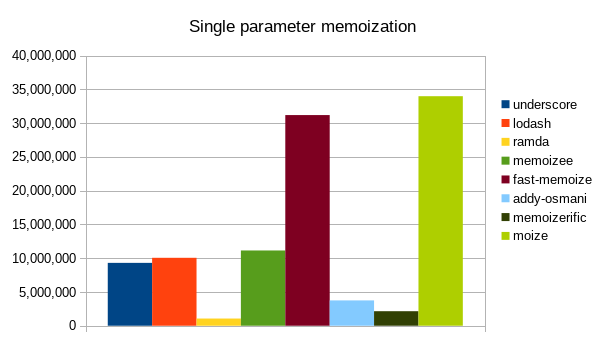
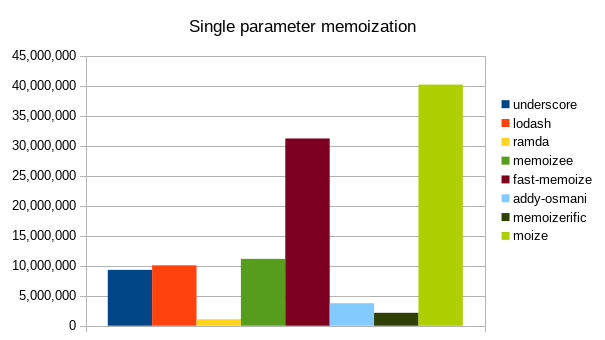
Updates...
* Remove unneeded `hasKey` function in favor of straightforward `cache.get` (boost single parameter function over 40mil!)
* Change `isMoizeKey` to `isMultiParamKey` and provide a simple way to check it when getting existing argument-based keys
* Update tests after changes
* Update README with new benchmarks

diff --git a/docs/quicksearch.html b/docs/quicksearch.html
@@ -7,7 +7,7 @@
     <script src="scripts/fulltext-search.js"></script>
 
     <script type="text/x-docstrap-searchdb">
-    {"MapLike.js.html":{"id":"MapLike.js.html","title":"Source: MapLike.js","body":" moize Modules moize Source: MapLike.js // @flow // utils import { getIndexOfItemInMap, splice, unshift } from './utils'; /** * @private * * @class MapLike * @classdesc class that mimics parts of the Map infrastructure, but faster */ class MapLike { lastItem: ?Object = undefined; list: Array&lt;any&gt; = []; size: number = 0; /** * @function clear * @memberOf MapLike * @instance * * @description * remove all keys from the map */ clear() { this.lastItem = undefined; this.list = []; this.size = 0; } /** * @function delete * @memberOf MapLike * @instance * * @description * remove the key from the map * * @param {*} key key to delete from the map */ delete(key: any) { const index: number = getIndexOfItemInMap(this.list, this.size, key); if (!!~index) { splice(this.list, index); this.size--; if (this.size === 0) { this.lastItem = undefined; } } } /** * @function get * @memberOf MapLike * @instance * * @description * get the value for the given key * * @param {*} key key to get the value for * @returns {*} value at the key location */ get(key: any) { if (!this.size) { return undefined; } // $FlowIgnore: this.lastItem.key exists if (this.lastItem.key === key) { // $FlowIgnore: this.lastItem.value exists return this.lastItem.value; } const index: number = getIndexOfItemInMap(this.list, this.size, key); if (!!~index) { this.lastItem = this.list[index]; splice(this.list, index); unshift(this.list, this.lastItem); // $FlowIgnore this will still exist after the unshift return this.lastItem.value; } } /** * @function has * @memberOf MapLike * @instance * * @description * does the map have the key provided * * @param {*} key key to test for in the map * @returns {boolean} does the map have the key */ has(key: any) { if (!this.size) { return false; } // $FlowIgnore last item exists because it has size if (this.lastItem.key === key) { return true; } const index = getIndexOfItemInMap(this.list, this.size, key); if (!!~index) { this.lastItem = this.list[index]; return true; } return false; } /** * @function set * @memberOf MapLike * @instance * * @description * set the value at the key location, or add a new item with that key value * * @param {*} key key to assign value of * @param {*} value value to store in the map at key */ set(key: any, value: any) { this.lastItem = { key, value }; unshift(this.list, this.lastItem); this.size++; } } export default MapLike; × Search results Close Documentation generated by JSDoc 3.4.3 using the DocStrap template. "},"index.js.html":{"id":"index.js.html","title":"Source: index.js","body":" moize Modules moize Source: index.js // @flow // external dependencies import MapLike from './MapLike'; // utils import { createAddPropertiesToFunction, createGetCacheKey, createSetNewCachedValue, hasKey, isFunction } from './utils'; type Options = { cache?: Object, isPromise?: boolean, maxAge?: number, maxArgs?: number, maxSize?: number, serialize?: boolean, serializeFunctions?: boolean, serializer?: Function }; /** * @module moize */ const INFINITY = Number.POSITIVE_INFINITY; const NOT_A_FUNCTION_ERROR = 'You must pass a function as the first parameter to moize.'; /** * @function moize * * @description * store cached values returned from calling method with arguments to avoid reprocessing data from same arguments * * @example * import moize from 'moize'; * * // standard implementation * const fn = (foo, bar) =&gt; { * return `${foo} ${bar}`; * }; * const memoizedFn = moize(fn); * * // implementation with options * const fn = async (id) =&gt; { * return get(`http://foo.com/${id}`); * }; * const memoizedFn = moize(fn, { * isPromise: true, * maxSize: 5 * }); * * @param {function} fn method to memoize * @param {Options} [options={}] options to customize how the caching is handled * @param {MapLike} [options.cache=new MapLike()] caching mechanism to use for method * @param {boolean} [options.isPromise=false] is the function return expected to be a promise to resolve * @param {number} [options.maxAge=Infinity] the maximum age the value should persist in cache * @param {number} [options.maxArgs=Infinity] the maximum number of arguments to be used in serializing the keys * @param {number} [options.maxSize=Infinity] the maximum size of the cache to retain * @param {function} [options.serializer] method to serialize arguments with for cache storage * @returns {Function} higher-order function which either returns from cache or newly-computed value */ const moize = function(fn: Function, options: Options = {}): any { if (!isFunction(fn)) { throw new TypeError(NOT_A_FUNCTION_ERROR); } if (fn.isMemoized) { return fn; } const { cache = new MapLike(), isPromise = false, maxAge = INFINITY, maxArgs = INFINITY, maxSize = INFINITY, serialize = false, serializeFunctions = false, serializer } = options; const addPropertiesToFunction: Function = createAddPropertiesToFunction(cache, fn); const getCacheKey: Function = createGetCacheKey(cache, serialize, serializer, serializeFunctions, maxArgs); const setNewCachedValue: Function = createSetNewCachedValue(isPromise, maxAge, maxSize); let key: any; /** * @private * * @function memoizedFunction * * @description * higher-order function which either returns from cache or stores newly-computed value and returns it * * @param {Array&lt;*&gt;} args arguments passed to method * @returns {any} value resulting from executing of fn passed to memoize */ const memoizedFunction = function(...args: Array&lt;any&gt;): any { key = getCacheKey(args); return hasKey(cache, key, args) ? cache.get(key) : setNewCachedValue(memoizedFunction, key, fn.apply(this, args)); }; return addPropertiesToFunction(memoizedFunction); }; /** * @function moize.react * * @description * react-specific memoization, with auto serialization including functions * * * @param {function} fn React functional component to memoize * @param {Options} [options={}] options to customize how the caching is handled * @returns {Function} higher-order function which either returns from cache or newly-computed ReactElement */ moize.react = function(fn: Function, options: Options = {}): any { return moize(fn, { ...options, serialize: true, serializeFunctions: true }); }; export default moize; × Search results Close Documentation generated by JSDoc 3.4.3 using the DocStrap template. "},"modules.list.html":{"id":"modules.list.html","title":"Modules","body":" moize Modules moize Modules × Search results Close Documentation generated by JSDoc 3.4.3 using the DocStrap template. "},"index.html":{"id":"index.html","title":"Index","body":" moize Modules moize moize 2.0.0 moize moize is a blazing fast memoization library for JavaScript. It handles multiple arguments out of the box, and also offers options to help satisfy a number of implementation-specific needs. It has no dependencies, and is about 2.7kb when minified and gzipped. Table of contents Installation Usage Usage with functional React components Advanced usage Direct cache manipulation Benchmarks Browser support Development Installation $ npm i moize --saveUsage import moize from 'moize'; const method = (a, b) =&gt; { return a + b; }; const memoized = moize(method); memoized(2, 4); // 6 memoized(2, 4); // 6, pulled from cacheAll parameter types are supported, including circular objects, functions, etc. You can even memoize functional React components based on their props + context combination! Usage with functional React components Now in v2.x.x of moize you have a quick shortcut for memoizing functional components in React: import moize from 'moize'; const Foo = ({bar, baz}) =&gt; { return ( &lt;div&gt; {bar} {baz} &lt;/div&gt; ); }; export default moize.react(Foo);moize.react will auto-apply the serialize and serializeFunctions options to true, which allows for a value equality comparison of props and context. You can still pass additional options in the same way you pass them in the default moize method. Please note this will not operate with components made via the class instantiation. Advanced usage moize optionally accepts an object of options as the second parameter. The full shape of these options: { cache: Map|Object, // custom cache implementation isPromise: boolean, // is the result a promise maxAge: number, // amount of time in milliseconds before the cache will expire maxArgs: number, // maximum number of arguments to use as key for caching maxSize: number, // maximum size of cache for this method serialize: boolean, // should the parameters be serialized instead of directly referenced serializeFunctions: boolean, // should functions be included in the serialization of multiple parameters serializer: Function // method to serialize the arguments to build a unique cache key }cache defaults to new Map() The default cache implementation is build for speed in its purpose, however if you would like then you can pass in a custom cache implementation. The only requirements for the cache implementation is that it matches the relevant Map API methods: clear delete get has set const cache = { clear() { Object.keys(this).forEach((key) =&gt; { if (typeof this[key] !== 'function') { this.delete(key); } }); }, delete(key) { delete this[key]; }, get(key) { return this[key]; }, has(key) { return this.hasOwnProperty[key]; }, set(key, value) { this[key] = value; return this; } }; const fn = (item) =&gt; { return item; }; const memoized = moize(fn, { cache });isPromise defaults to false Is the computed value in the function a Promise, and should we cache the resolved value from that Promise. const fn = async (item) =&gt; { return await item; }; const memoized = moize(fn, { isPromise: true });maxAge defaults to Infinity The maximum amount of time in milliseconds that you want a computed value to be stored in cache for this method. const fn = (item) =&gt; { return item; }; const memoized = moize(fn, { maxAge: 1000 * 60 * 5 // five minutes });maxArgs defaults to the length of arguments passed to the method The maximum number of arguments used in creating the key for the cache. const fn = (item1, item2, item3) =&gt; { return item1 + item2 + item3; }; const memoized = moize(fn, { maxArgs: 2 });maxSize defaults to Infinity The maximum size of the cache you want stored in cache for this method. Clearance of the cache once the maxSize is reached is on a Least Recently Used basis. const fn = (item) =&gt; { return item; }; const memoized = moize(fn, { maxSize: 5 });serialize defaults to false In moize v1.x.x, parameter serialization was used, whereas in v2.x.x and beyond we use strict equality to compare parameters. While this is both faster and more accurate, there may be scenarios where you want to serialize the parameters instead (for value equality comparison in situations where you are using mutated objects, for example). Simply pass the serialize parameter as true and you will use the performant serializer from v1.x.x. const fn = (mutableObject) =&gt; { return mutableObject.foo; }; const memoized = moize(fn, { serialize: true }); const object = { foo: 'foo' }; memoized(object); // 'foo' object.foo = 'bar'; memoized(object); // 'bar'serializeFunctions defaults to false By setting this option to true, a custom replacer will be used to ensure functions are included in the key serialization. This is especially beneficial when caching functional React components, as interactivity functions as part of props will now be included in the unique key structure (in fact, this is exactly how moize.react works!). Please note that this will decrease performance of this specific function between 10-25% depending on environment. const FunctionalComponent = ({onClickFoo}) =&gt; { return ( &lt;button onClick={onClickFoo} type=&quot;button&quot; &gt; Click me! &lt;/button&gt; ) }; const MemoizedFunctionalComponent = moize(FunctionalComponent, { serializeFunctions: true });Please note that you must also set serialize to true for this setting to take effect. serializer defaults to serializeArguments in utils.js The default seralizer method is highly performant, and covers a number of edge cases (recursive objects, for example), however if you want to provide a custom one you may. The value returned from the function must be a valid value of keys for a Map. const serializer = (args) =&gt; { return JSON.stringify(args[0]); }; const memoized = moize(fn, { serializer });Please note that you must also set serialize to true for this setting to take effect. Direct cache manipulation There are a couple of methods provided on the memoized function which allow for programmatic manipulation of the cache: clear() This will clear all values in the cache, resetting it to a default state. const memoized = moize((item) =&gt; { return item; }); memoized.clear();delete(key) This will delete the provided key from cache. // if single parameter, delete with the object itself const memoized = moize((item) =&gt; { return item; }); const foo = { bar: 'baz' }; memoized(foo); memoized.delete(foo); // if multi parameter, delete with the same arguments you passed const memoized = moize((item1, item2) =&gt; { return item1 + item2; }); const foo = 1; const bar = 2; memoized(foo, bar); memoized.delete(foo, bar);keys() This will return a list of the current keys in cache. const memoized = moize((item) =&gt; { return item; }); const foo = 'foo'; memoized(foo); const bar = { baz: 'baz' }; memoized(bar); const keys = memoized.keys(); // ['foo', {baz: 'baz'}]values() This will return a list of the current keys in cache. const memoized = moize((item) =&gt; { return { item }; }); const foo = 'foo'; memoized(foo); const bar = { baz: 'baz' }; memoized(bar); const values = memoized.values(); // [{item: 'foo'}, {item: {baz: 'baz'}}]Benchmarks All values provided are the number of operations per second (ops/sec) calculated by the Benchmark suite. Note that underscore, lodash, and ramda do not support mulitple-parameter memoization, so they are not included in those benchmarks. Each benchmark was performed using the default configuration of the library, with a fibonacci calculation based on a starting parameter of 35, and in the case of multiple parameters a second parameter (boolean for primitives, object for complex objects) was used. underscore lodash ramda memoizee fast-memoize addy-osmani memoizerific moize 9,313,172 10,063,753 1,072,901 11,145,989 31,208,485 3,755,775 2,157,874 33,995,482 memoizee fast-memoize addy-osmani memoizerific moize 8,018,360 1,239,470 1,681,101 1,359,196 6,581,210 memoizee fast-memoize addy-osmani memoizerific moize 7,198,600 877,440 810,924 1,208,660 6,011,380 NOTE: benchmarks posted prior were inaccurate for memoizee and memoizerific, as it turns out I was creating new objects instead of using the same ones (sorry). The updated benchmarks are an accurate reflection of default usage. Browser support Chrome (all versions) Firefox (all versions) Opera 15+ Edge (all versions) IE 9+ Safari 6+ Theoretically the support should go back even farther, these are just the environments that I have tested. Development Standard stuff, clone the repo and npm install dependencies. The npm scripts available: build =&gt; run webpack to build development dist file with NODE_ENV=development build:minifed =&gt; run webpack to build production dist file with NODE_ENV=production dev =&gt; run webpack dev server to run example app (playground!) dist =&gt; runs build and build-minified docs =&gt; builds the docs via jsdoc lint =&gt; run ESLint against all files in the src folder prepublish =&gt; runs compile-for-publish prepublish:compile =&gt; run lint, test, transpile, dist test =&gt; run AVA test functions with NODE_ENV=test test:coverage =&gt; run test but with nyc for coverage checker test:watch =&gt; run test, but with persistent watcher transpile =&gt; run babel against all files in src to create files in lib × Search results Close Documentation generated by JSDoc 3.4.3 using the DocStrap template. "},"module-moize.html":{"id":"module-moize.html","title":"Module: moize","body":" moize Modules moize Module: moize Source: index.js, line 23 Methods &lt;inner&gt; moize(fn [, options]) store cached values returned from calling method with arguments to avoid reprocessing data from same arguments Parameters: Name Type Argument Default Description fn function method to memoize options Options &lt;optional&gt; {} options to customize how the caching is handled Properties Name Type Argument Default Description cache MapLike &lt;optional&gt; new MapLike() caching mechanism to use for method isPromise boolean &lt;optional&gt; false is the function return expected to be a promise to resolve maxAge number &lt;optional&gt; Infinity the maximum age the value should persist in cache maxArgs number &lt;optional&gt; Infinity the maximum number of arguments to be used in serializing the keys maxSize number &lt;optional&gt; Infinity the maximum size of the cache to retain serializer function &lt;optional&gt; method to serialize arguments with for cache storage Source: index.js, line 30 Returns: higher-order function which either returns from cache or newly-computed value Type function Example import moize from 'moize'; // standard implementation const fn = (foo, bar) =&gt; { return `${foo} ${bar}`; }; const memoizedFn = moize(fn); // implementation with options const fn = async (id) =&gt; { return get(`http://foo.com/${id}`); }; const memoizedFn = moize(fn, { isPromise: true, maxSize: 5 }); × Search results Close Documentation generated by JSDoc 3.4.3 using the DocStrap template. "}}
+    {"MapLike.js.html":{"id":"MapLike.js.html","title":"Source: MapLike.js","body":" moize Modules moize Source: MapLike.js // @flow // utils import { getIndexOfItemInMap, splice, unshift } from './utils'; /** * @private * * @class MapLike * @classdesc class that mimics parts of the Map infrastructure, but faster */ class MapLike { lastItem: ?Object = undefined; list: Array&lt;any&gt; = []; size: number = 0; /** * @function clear * @memberOf MapLike * @instance * * @description * remove all keys from the map */ clear() { this.lastItem = undefined; this.list = []; this.size = 0; } /** * @function delete * @memberOf MapLike * @instance * * @description * remove the key from the map * * @param {*} key key to delete from the map */ delete(key: any) { const index: number = getIndexOfItemInMap(this.list, this.size, key); if (!!~index) { splice(this.list, index); this.size--; if (this.size === 0) { this.lastItem = undefined; } } } /** * @function get * @memberOf MapLike * @instance * * @description * get the value for the given key * * @param {*} key key to get the value for * @returns {*} value at the key location */ get(key: any) { if (!this.size) { return undefined; } // $FlowIgnore: this.lastItem.key exists if (this.lastItem.key === key) { // $FlowIgnore: this.lastItem.value exists return this.lastItem.value; } const index: number = getIndexOfItemInMap(this.list, this.size, key); if (!!~index) { this.lastItem = this.list[index]; splice(this.list, index); unshift(this.list, this.lastItem); // $FlowIgnore this will still exist after the unshift return this.lastItem.value; } } /** * @function has * @memberOf MapLike * @instance * * @description * does the map have the key provided * * @param {*} key key to test for in the map * @returns {boolean} does the map have the key */ has(key: any) { if (!this.size) { return false; } // $FlowIgnore last item exists because it has size if (this.lastItem.key === key) { return true; } const index = getIndexOfItemInMap(this.list, this.size, key); if (!!~index) { this.lastItem = this.list[index]; return true; } return false; } /** * @function set * @memberOf MapLike * @instance * * @description * set the value at the key location, or add a new item with that key value * * @param {*} key key to assign value of * @param {*} value value to store in the map at key */ set(key: any, value: any) { this.lastItem = { key, isMultiParamKey: !!(key &amp;&amp; key.isMultiParamKey), value }; unshift(this.list, this.lastItem); this.size++; } } export default MapLike; × Search results Close Documentation generated by JSDoc 3.4.3 using the DocStrap template. "},"index.js.html":{"id":"index.js.html","title":"Source: index.js","body":" moize Modules moize Source: index.js // @flow // external dependencies import MapLike from './MapLike'; // utils import { createAddPropertiesToFunction, createGetCacheKey, createSetNewCachedValue, isFunction } from './utils'; type Options = { cache?: Object, isPromise?: boolean, maxAge?: number, maxArgs?: number, maxSize?: number, serialize?: boolean, serializeFunctions?: boolean, serializer?: Function }; /** * @module moize */ const INFINITY = Number.POSITIVE_INFINITY; const NOT_A_FUNCTION_ERROR = 'You must pass a function as the first parameter to moize.'; /** * @function moize * * @description * store cached values returned from calling method with arguments to avoid reprocessing data from same arguments * * @example * import moize from 'moize'; * * // standard implementation * const fn = (foo, bar) =&gt; { * return `${foo} ${bar}`; * }; * const memoizedFn = moize(fn); * * // implementation with options * const fn = async (id) =&gt; { * return get(`http://foo.com/${id}`); * }; * const memoizedFn = moize(fn, { * isPromise: true, * maxSize: 5 * }); * * @param {function} fn method to memoize * @param {Options} [options={}] options to customize how the caching is handled * @param {MapLike} [options.cache=new MapLike()] caching mechanism to use for method * @param {boolean} [options.isPromise=false] is the function return expected to be a promise to resolve * @param {number} [options.maxAge=Infinity] the maximum age the value should persist in cache * @param {number} [options.maxArgs=Infinity] the maximum number of arguments to be used in serializing the keys * @param {number} [options.maxSize=Infinity] the maximum size of the cache to retain * @param {function} [options.serializer] method to serialize arguments with for cache storage * @returns {Function} higher-order function which either returns from cache or newly-computed value */ const moize = function(fn: Function, options: Options = {}): any { if (!isFunction(fn)) { throw new TypeError(NOT_A_FUNCTION_ERROR); } if (fn.isMemoized) { return fn; } const { cache = new MapLike(), isPromise = false, maxAge = INFINITY, maxArgs = INFINITY, maxSize = INFINITY, serialize = false, serializeFunctions = false, serializer } = options; const addPropertiesToFunction: Function = createAddPropertiesToFunction(cache, fn); const getCacheKey: Function = createGetCacheKey(cache, serialize, serializer, serializeFunctions, maxArgs); const setNewCachedValue: Function = createSetNewCachedValue(isPromise, maxAge, maxSize); let key: any; /** * @private * * @function memoizedFunction * * @description * higher-order function which either returns from cache or stores newly-computed value and returns it * * @param {Array&lt;*&gt;} args arguments passed to method * @returns {any} value resulting from executing of fn passed to memoize */ const memoizedFunction = function(...args: Array&lt;any&gt;): any { key = getCacheKey(args); return cache.has(key) ? cache.get(key) : setNewCachedValue(memoizedFunction, key, fn.apply(this, args)); }; return addPropertiesToFunction(memoizedFunction); }; /** * @function moize.react * * @description * react-specific memoization, with auto serialization including functions * * * @param {function} fn React functional component to memoize * @param {Options} [options={}] options to customize how the caching is handled * @returns {Function} higher-order function which either returns from cache or newly-computed ReactElement */ moize.react = function(fn: Function, options: Options = {}): any { return moize(fn, { ...options, serialize: true, serializeFunctions: true }); }; export default moize; × Search results Close Documentation generated by JSDoc 3.4.3 using the DocStrap template. "},"modules.list.html":{"id":"modules.list.html","title":"Modules","body":" moize Modules moize Modules × Search results Close Documentation generated by JSDoc 3.4.3 using the DocStrap template. "},"index.html":{"id":"index.html","title":"Index","body":" moize Modules moize moize 2.0.0 moize moize is a blazing fast memoization library for JavaScript. It handles multiple arguments out of the box, and also offers options to help satisfy a number of implementation-specific needs. It has no dependencies, and is about 2.7kb when minified and gzipped. Table of contents Installation Usage Usage with functional React components Advanced usage Direct cache manipulation Benchmarks Browser support Development Installation $ npm i moize --saveUsage import moize from 'moize'; const method = (a, b) =&gt; { return a + b; }; const memoized = moize(method); memoized(2, 4); // 6 memoized(2, 4); // 6, pulled from cacheAll parameter types are supported, including circular objects, functions, etc. You can even memoize functional React components based on their props + context combination! Usage with functional React components Now in v2.x.x of moize you have a quick shortcut for memoizing functional components in React: import moize from 'moize'; const Foo = ({bar, baz}) =&gt; { return ( &lt;div&gt; {bar} {baz} &lt;/div&gt; ); }; export default moize.react(Foo);moize.react will auto-apply the serialize and serializeFunctions options to true, which allows for a value equality comparison of props and context. You can still pass additional options in the same way you pass them in the default moize method. Please note this will not operate with components made via the class instantiation. Advanced usage moize optionally accepts an object of options as the second parameter. The full shape of these options: { cache: Map|Object, // custom cache implementation isPromise: boolean, // is the result a promise maxAge: number, // amount of time in milliseconds before the cache will expire maxArgs: number, // maximum number of arguments to use as key for caching maxSize: number, // maximum size of cache for this method serialize: boolean, // should the parameters be serialized instead of directly referenced serializeFunctions: boolean, // should functions be included in the serialization of multiple parameters serializer: Function // method to serialize the arguments to build a unique cache key }cache defaults to new Map() The default cache implementation is build for speed in its purpose, however if you would like then you can pass in a custom cache implementation. The only requirements for the cache implementation is that it matches the relevant Map API methods: clear delete get has set const cache = { clear() { Object.keys(this).forEach((key) =&gt; { if (typeof this[key] !== 'function') { this.delete(key); } }); }, delete(key) { delete this[key]; }, get(key) { return this[key]; }, has(key) { return this.hasOwnProperty[key]; }, set(key, value) { this[key] = value; return this; } }; const fn = (item) =&gt; { return item; }; const memoized = moize(fn, { cache });isPromise defaults to false Is the computed value in the function a Promise, and should we cache the resolved value from that Promise. const fn = async (item) =&gt; { return await item; }; const memoized = moize(fn, { isPromise: true });maxAge defaults to Infinity The maximum amount of time in milliseconds that you want a computed value to be stored in cache for this method. const fn = (item) =&gt; { return item; }; const memoized = moize(fn, { maxAge: 1000 * 60 * 5 // five minutes });maxArgs defaults to the length of arguments passed to the method The maximum number of arguments used in creating the key for the cache. const fn = (item1, item2, item3) =&gt; { return item1 + item2 + item3; }; const memoized = moize(fn, { maxArgs: 2 });maxSize defaults to Infinity The maximum size of the cache you want stored in cache for this method. Clearance of the cache once the maxSize is reached is on a Least Recently Used basis. const fn = (item) =&gt; { return item; }; const memoized = moize(fn, { maxSize: 5 });serialize defaults to false In moize v1.x.x, parameter serialization was used, whereas in v2.x.x and beyond we use strict equality to compare parameters. While this is both faster and more accurate, there may be scenarios where you want to serialize the parameters instead (for value equality comparison in situations where you are using mutated objects, for example). Simply pass the serialize parameter as true and you will use the performant serializer from v1.x.x. const fn = (mutableObject) =&gt; { return mutableObject.foo; }; const memoized = moize(fn, { serialize: true }); const object = { foo: 'foo' }; memoized(object); // 'foo' object.foo = 'bar'; memoized(object); // 'bar'serializeFunctions defaults to false By setting this option to true, a custom replacer will be used to ensure functions are included in the key serialization. This is especially beneficial when caching functional React components, as interactivity functions as part of props will now be included in the unique key structure (in fact, this is exactly how moize.react works!). Please note that this will decrease performance of this specific function between 10-25% depending on environment. const FunctionalComponent = ({onClickFoo}) =&gt; { return ( &lt;button onClick={onClickFoo} type=&quot;button&quot; &gt; Click me! &lt;/button&gt; ) }; const MemoizedFunctionalComponent = moize(FunctionalComponent, { serializeFunctions: true });Please note that you must also set serialize to true for this setting to take effect. serializer defaults to serializeArguments in utils.js The default seralizer method is highly performant, and covers a number of edge cases (recursive objects, for example), however if you want to provide a custom one you may. The value returned from the function must be a valid value of keys for a Map. const serializer = (args) =&gt; { return JSON.stringify(args[0]); }; const memoized = moize(fn, { serializer });Please note that you must also set serialize to true for this setting to take effect. Direct cache manipulation There are a couple of methods provided on the memoized function which allow for programmatic manipulation of the cache: clear() This will clear all values in the cache, resetting it to a default state. const memoized = moize((item) =&gt; { return item; }); memoized.clear();delete(key) This will delete the provided key from cache. // if single parameter, delete with the object itself const memoized = moize((item) =&gt; { return item; }); const foo = { bar: 'baz' }; memoized(foo); memoized.delete(foo); // if multi parameter, delete with the same arguments you passed const memoized = moize((item1, item2) =&gt; { return item1 + item2; }); const foo = 1; const bar = 2; memoized(foo, bar); memoized.delete(foo, bar);keys() This will return a list of the current keys in cache. const memoized = moize((item) =&gt; { return item; }); const foo = 'foo'; memoized(foo); const bar = { baz: 'baz' }; memoized(bar); const keys = memoized.keys(); // ['foo', {baz: 'baz'}]values() This will return a list of the current keys in cache. const memoized = moize((item) =&gt; { return { item }; }); const foo = 'foo'; memoized(foo); const bar = { baz: 'baz' }; memoized(bar); const values = memoized.values(); // [{item: 'foo'}, {item: {baz: 'baz'}}]Benchmarks All values provided are the number of operations per second (ops/sec) calculated by the Benchmark suite. Note that underscore, lodash, and ramda do not support mulitple-parameter memoization, so they are not included in those benchmarks. Each benchmark was performed using the default configuration of the library, with a fibonacci calculation based on a starting parameter of 35, and in the case of multiple parameters a second parameter (boolean for primitives, object for complex objects) was used. underscore lodash ramda memoizee fast-memoize addy-osmani memoizerific moize 9,313,172 10,063,753 1,072,901 11,145,989 31,208,485 3,755,775 2,157,874 40,188,210 memoizee fast-memoize addy-osmani memoizerific moize 8,018,360 1,239,470 1,681,101 1,359,196 6,815,215 memoizee fast-memoize addy-osmani memoizerific moize 7,198,600 877,440 810,924 1,208,660 6,011,380 NOTE: benchmarks posted prior were inaccurate for memoizee and memoizerific, as it turns out I was creating new objects instead of using the same ones (sorry). The updated benchmarks are an accurate reflection of default usage. Browser support Chrome (all versions) Firefox (all versions) Opera 15+ Edge (all versions) IE 9+ Safari 6+ Theoretically the support should go back even farther, these are just the environments that I have tested. Development Standard stuff, clone the repo and npm install dependencies. The npm scripts available: build =&gt; run webpack to build development dist file with NODE_ENV=development build:minifed =&gt; run webpack to build production dist file with NODE_ENV=production dev =&gt; run webpack dev server to run example app (playground!) dist =&gt; runs build and build-minified docs =&gt; builds the docs via jsdoc lint =&gt; run ESLint against all files in the src folder prepublish =&gt; runs compile-for-publish prepublish:compile =&gt; run lint, test, transpile, dist test =&gt; run AVA test functions with NODE_ENV=test test:coverage =&gt; run test but with nyc for coverage checker test:watch =&gt; run test, but with persistent watcher transpile =&gt; run babel against all files in src to create files in lib × Search results Close Documentation generated by JSDoc 3.4.3 using the DocStrap template. "},"module-moize.html":{"id":"module-moize.html","title":"Module: moize","body":" moize Modules moize Module: moize Source: index.js, line 23 Methods &lt;inner&gt; moize(fn [, options]) store cached values returned from calling method with arguments to avoid reprocessing data from same arguments Parameters: Name Type Argument Default Description fn function method to memoize options Options &lt;optional&gt; {} options to customize how the caching is handled Properties Name Type Argument Default Description cache MapLike &lt;optional&gt; new MapLike() caching mechanism to use for method isPromise boolean &lt;optional&gt; false is the function return expected to be a promise to resolve maxAge number &lt;optional&gt; Infinity the maximum age the value should persist in cache maxArgs number &lt;optional&gt; Infinity the maximum number of arguments to be used in serializing the keys maxSize number &lt;optional&gt; Infinity the maximum size of the cache to retain serializer function &lt;optional&gt; method to serialize arguments with for cache storage Source: index.js, line 30 Returns: higher-order function which either returns from cache or newly-computed value Type function Example import moize from 'moize'; // standard implementation const fn = (foo, bar) =&gt; { return `${foo} ${bar}`; }; const memoizedFn = moize(fn); // implementation with options const fn = async (id) =&gt; { return get(`http://foo.com/${id}`); }; const memoizedFn = moize(fn, { isPromise: true, maxSize: 5 }); × Search results Close Documentation generated by JSDoc 3.4.3 using the DocStrap template. "}}
     </script>
 
     <script type="text/javascript">

diff --git a/test/MapLike.js b/test/MapLike.js
@@ -33,6 +33,7 @@ test('if get will return the value for the passed key in map', (t) => {
   t.is(map.get(key), value);
   t.deepEqual(map.lastItem, {
     key,
+    isMultiParamKey: false,
     value
   });
 
@@ -43,6 +44,7 @@ test('if get will return the value for the passed key in map', (t) => {
   t.is(map.get(value), key);
   t.deepEqual(map.lastItem, {
     key: value,
+    isMultiParamKey: false,
     value: key
   });
 });
@@ -56,39 +58,39 @@ test('if get will keep the order of retrieval correct', (t) => {
   map.set('fourth', 4);
 
   t.deepEqual(map.list, [
-    {key: 'fourth', value: 4},
-    {key: 'third', value: 3},
-    {key: 'second', value: 2},
-    {key: 'first', value: 1},
+    {key: 'fourth', isMultiParamKey: false, value: 4},
+    {key: 'third', isMultiParamKey: false, value: 3},
+    {key: 'second', isMultiParamKey: false, value: 2},
+    {key: 'first', isMultiParamKey: false, value: 1},
   ]);
 
   map.get('third');
   map.get('second');
 
   t.deepEqual(map.list, [
-    {key: 'second', value: 2},
-    {key: 'third', value: 3},
-    {key: 'fourth', value: 4},
-    {key: 'first', value: 1}
+    {key: 'second', isMultiParamKey: false, value: 2},
+    {key: 'third', isMultiParamKey: false, value: 3},
+    {key: 'fourth', isMultiParamKey: false, value: 4},
+    {key: 'first', isMultiParamKey: false, value: 1}
   ]);
 
   map.set('fifth', 5);
 
   t.deepEqual(map.list, [
-    {key: 'fifth', value: 5},
-    {key: 'second', value: 2},
-    {key: 'third', value: 3},
-    {key: 'fourth', value: 4},
-    {key: 'first', value: 1}
+    {key: 'fifth', isMultiParamKey: false, value: 5},
+    {key: 'second', isMultiParamKey: false, value: 2},
+    {key: 'third', isMultiParamKey: false, value: 3},
+    {key: 'fourth', isMultiParamKey: false, value: 4},
+    {key: 'first', isMultiParamKey: false, value: 1}
   ]);
 
   map.delete('fifth');
 
   t.deepEqual(map.list, [
-    {key: 'second', value: 2},
-    {key: 'third', value: 3},
-    {key: 'fourth', value: 4},
-    {key: 'first', value: 1}
+    {key: 'second', isMultiParamKey: false, value: 2},
+    {key: 'third', isMultiParamKey: false, value: 3},
+    {key: 'fourth', isMultiParamKey: false, value: 4},
+    {key: 'first', isMultiParamKey: false, value: 1}
   ]);
 });
 
@@ -102,6 +104,7 @@ test('if has will identify the existence of a key in the map', (t) => {
   t.true(map.has(key));
   t.deepEqual(map.lastItem, {
     key,
+    isMultiParamKey: false,
     value
   });
   t.false(map.has('bar'));
@@ -117,6 +120,7 @@ test('if set will add the key and value passed to the map', (t) => {
 
   const lastItem = {
     key,
+    isMultiParamKey: false,
     value
   };
 

diff --git a/test/utils.js b/test/utils.js
@@ -18,7 +18,6 @@ import {
   getKeyFromArguments,
   getSerializerFunction,
   getStringifiedArgument,
-  hasKey,
   isArray,
   isComplexObject,
   isEqual,
@@ -88,16 +87,18 @@ test('if getKeyFromArguments produces an array of keys arguments when no match i
   const result = getKeyFromArguments(cache, args);
 
   t.is(result, args);
-  t.true(result.isMoizeKey);
+  t.true(result.isMultiParamKey);
 });
 
 test('if getKeyFromArguments returns an existing array of arguments when match is found', (t) => {
   const existingArgList = [
     {
       key: ['foo', 'bar'],
+      isMultiParamKey: true,
       value: 'baz'
     }, {
       key: ['bar', 'baz'],
+      isMultiParamKey: true,
       value: 'foo'
     }
   ];
@@ -111,26 +112,6 @@ test('if getKeyFromArguments returns an existing array of arguments when match i
 
   t.not(result, args);
   t.deepEqual(result, args);
-});
-
-test('if hasKey will call has if the key passed is not an array', (t) => {
-  const key = 'foo';
-  const args = [key];
-  const cache = {
-    has: sinon.stub()
-  };
-
-  hasKey(cache, key, args);
-
-  t.true(cache.has.calledOnce);
-});
-
-test('if hasKey will check if key is not equal to arg if the key passed is an array', (t) => {
-  const key = 'foo';
-  const args = ['key'];
-
-  t.true(hasKey(null, [key], args));
-  t.false(hasKey(null, args, args));
 });
 
 test('if decycle will return an object that has circular references removed', (t) => {
@@ -596,7 +577,7 @@ test('if setNewCacheValue will delete the item if the maxSize is set', (t) => {
   setNewCacheValue(fn, keyToSet, valueToSet);
 
   t.deepEqual(cache.list, [
-    {key: keyToSet, value: valueToSet}
+    {key: keyToSet, isMultiParamKey: false, value: valueToSet}
   ]);
 });
 

diff --git a/src/utils.js b/src/utils.js
@@ -365,7 +365,7 @@ export const createAddPropertiesToFunction = (cache: any, fn: Function): Functio
      * @param {Array<*>} args combination of args to remove from cache
      */
     fn.delete = (...args: Array<any>) => {
-      const key = args.length === 1 && args[0].isMoizeKey ? args[0] : getKeyFromArguments(cache, args);
+      const key = args.length === 1 && args[0].isMultiParamKey ? args[0] : getKeyFromArguments(cache, args);
 
       deleteItemFromCache(fn.cache, key);
     };
@@ -577,38 +577,17 @@ export const getKeyFromArguments = (cache: any, newArgs: Array<any>): Array<any>
       currentValue: Array<any>;
 
   while (++index < cache.size) {
-    currentValue = cache.list[index].key;
+    currentValue = cache.list[index];
 
-    if (!isArray(currentValue)) {
-      continue;
-    }
-
-    if (areArraysShallowEqual(currentValue, newArgs)) {
-      return currentValue;
+    if (currentValue.isMultiParamKey && areArraysShallowEqual(currentValue.key, newArgs)) {
+      return currentValue.key;
     }
   }
 
   // $FlowIgnore ok to add key to array object
-  newArgs.isMoizeKey = true;
+  newArgs.isMultiParamKey = true;
 
   return newArgs;
-};
-
-/**
- * @private
- *
- * @function hasKey
- *
- * @description
- * does the key currently exist in cache
- *
- * @param {*} cache cache used to store arguments
- * @param {*} key key to check for existence in cache
- * @param {Array<*>} args args passed to the function
- * @return {boolean} does the cache contain the key
- */
-export const hasKey = (cache: any, key: any, args: Array<any>): boolean => {
-  return isArray(key) ? key !== args : cache.has(key);
 };
 
 /**

diff --git a/docs/index.html b/docs/index.html
@@ -90,7 +90,7 @@
     <section class="readme-section">
         <article><h1 id="moize">moize</h1>
 <p><img src="https://img.shields.io/badge/build-passing-brightgreen.svg"/>
-<img src="https://img.shields.io/badge/coverage-98.21%25-brightgreen.svg"/>
+<img src="https://img.shields.io/badge/coverage-98.63%25-brightgreen.svg"/>
 <img src="https://img.shields.io/badge/license-MIT-blue.svg"/></p>
 <p><code>moize</code> is a <a href="#benchmarks">blazing fast</a> memoization library for JavaScript. It handles multiple arguments out of the box, and also offers options to help satisfy a number of implementation-specific needs. It has no dependencies, and is about 2.7kb when minified and gzipped.</p>
 <h3 id="table-of-contents">Table of contents</h3>
@@ -345,7 +345,7 @@ const values = memoized.values(); // [{item: 'foo'}, {item: {baz: 'baz'}}]</code
 <td>31,208,485</td>
 <td>3,755,775</td>
 <td>2,157,874</td>
-<td>33,995,482</td>
+<td>40,188,210</td>
 </tr>
 </tbody>
 </table>
@@ -366,7 +366,7 @@ const values = memoized.values(); // [{item: 'foo'}, {item: {baz: 'baz'}}]</code
 <td>1,239,470</td>
 <td>1,681,101</td>
 <td>1,359,196</td>
-<td>6,581,210</td>
+<td>6,815,215</td>
 </tr>
 </tbody>
 </table>

diff --git a/docs/index.js.html b/docs/index.js.html
@@ -80,7 +80,6 @@ import {
   createAddPropertiesToFunction,
   createGetCacheKey,
   createSetNewCachedValue,
-  hasKey,
   isFunction
 } from './utils';
 
@@ -175,7 +174,7 @@ const moize = function(fn: Function, options: Options = {}): any {
   const memoizedFunction = function(...args: Array&lt;any>): any {
     key = getCacheKey(args);
 
-    return hasKey(cache, key, args) ? cache.get(key) : setNewCachedValue(memoizedFunction, key, fn.apply(this, args));
+    return cache.has(key) ? cache.get(key) : setNewCachedValue(memoizedFunction, key, fn.apply(this, args));
   };
 
   return addPropertiesToFunction(memoizedFunction);

diff --git a/src/index.js b/src/index.js
@@ -8,7 +8,6 @@ import {
   createAddPropertiesToFunction,
   createGetCacheKey,
   createSetNewCachedValue,
-  hasKey,
   isFunction
 } from './utils';
 
@@ -103,7 +102,7 @@ const moize = function(fn: Function, options: Options = {}): any {
   const memoizedFunction = function(...args: Array<any>): any {
     key = getCacheKey(args);
 
-    return hasKey(cache, key, args) ? cache.get(key) : setNewCachedValue(memoizedFunction, key, fn.apply(this, args));
+    return cache.has(key) ? cache.get(key) : setNewCachedValue(memoizedFunction, key, fn.apply(this, args));
   };
 
   return addPropertiesToFunction(memoizedFunction);

diff --git a/docs/MapLike.js.html b/docs/MapLike.js.html
@@ -208,6 +208,7 @@ class MapLike {
   set(key: any, value: any) {
     this.lastItem = {
       key,
+      isMultiParamKey: !!(key &amp;&amp; key.isMultiParamKey),
       value
     };
 

diff --git a/src/MapLike.js b/src/MapLike.js
@@ -136,6 +136,7 @@ class MapLike {
   set(key: any, value: any) {
     this.lastItem = {
       key,
+      isMultiParamKey: !!(key && key.isMultiParamKey),
       value
     };
 

diff --git a/README.md b/README.md
@@ -1,7 +1,7 @@
 # moize
 
 <img src="https://img.shields.io/badge/build-passing-brightgreen.svg"/>
-<img src="https://img.shields.io/badge/coverage-98.21%25-brightgreen.svg"/>
+<img src="https://img.shields.io/badge/coverage-98.63%25-brightgreen.svg"/>
 <img src="https://img.shields.io/badge/license-MIT-blue.svg"/>
 
 `moize` is a [blazing fast](#benchmarks) memoization library for JavaScript. It handles multiple arguments out of the box, and also offers options to help satisfy a number of implementation-specific needs. It has no dependencies, and is about 2.7kb when minified and gzipped.
@@ -338,13 +338,13 @@ All values provided are the number of operations per second (ops/sec) calculated
 
 | underscore | lodash     | ramda     | memoizee   | fast-memoize | addy-osmani | memoizerific | moize      |
 |------------|------------|-----------|------------|--------------|-------------|--------------|------------|
-| 9,313,172  | 10,063,753 | 1,072,901 | 11,145,989 | 31,208,485   | 3,755,775   | 2,157,874    | 33,995,482 |
+| 9,313,172  | 10,063,753 | 1,072,901 | 11,145,989 | 31,208,485   | 3,755,775   | 2,157,874    | 40,188,210 |
 
 ![Multiple primitive parameters image](img/multiple-parameter-primitives.png)
 
 | memoizee  | fast-memoize | addy-osmani | memoizerific | moize     |
 |-----------|--------------|-------------|--------------|-----------|
-| 8,018,360 | 1,239,470    | 1,681,101   | 1,359,196    | 6,581,210 |
+| 8,018,360 | 1,239,470    | 1,681,101   | 1,359,196    | 6,815,215 |
 
 ![Multiple complex parameters image](img/multiple-parameter-complex.png)
 
